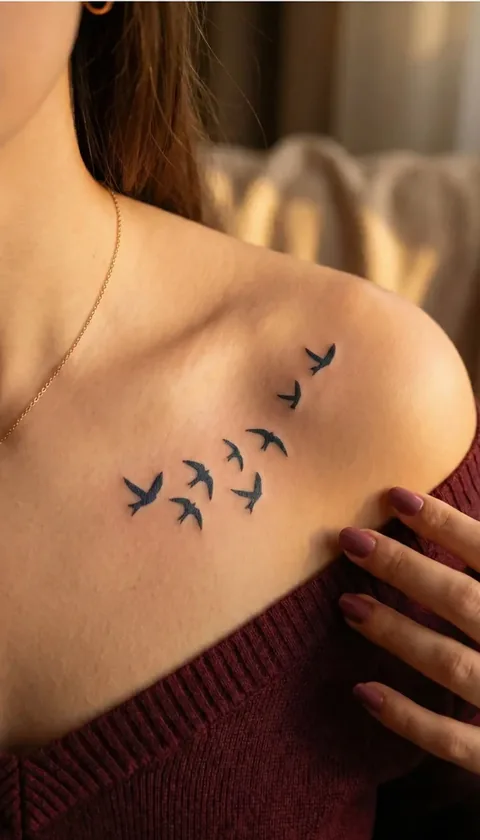
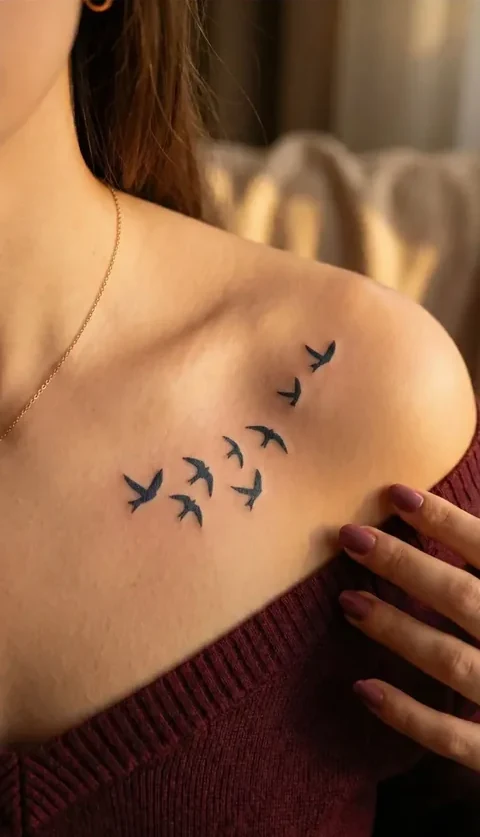
Inklabs: trim the white strip from the top of the birds photo
Claude-Session: https://claude.ai/code/session_01MojWS2PaHbmFcBdXDkzyEs

diff --git a/src/content/images.ts b/src/content/images.ts
@@ -538,7 +538,7 @@ export const img = {
   "inklabs-logo-system": { src: inklabsLogoSystem, w: 1400, h: 1224 },
   "inklabs-moodboard": { src: inklabsMoodboard, w: 1600, h: 1200 },
   "inklabs-photo-cross": { src: inklabsPhotoCross, w: 480, h: 840 },
-  "inklabs-photo-birds": { src: inklabsPhotoBirds, w: 480, h: 840 },
+  "inklabs-photo-birds": { src: inklabsPhotoBirds, w: 480, h: 837 },
   "inklabs-photo-compass": { src: inklabsPhotoCompass, w: 480, h: 840 },
   "inklabs-photo-caduceus": { src: inklabsPhotoCaduceus, w: 480, h: 840 },
 } satisfies Record<string, Img>;
